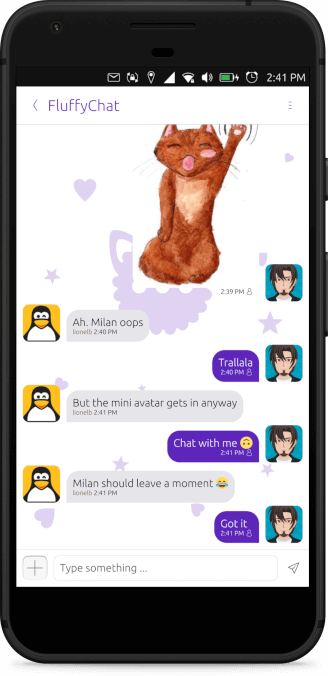
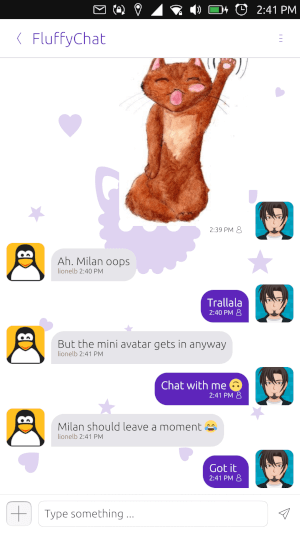
New screenshot design

diff --git a/assets/css/custom.css b/assets/css/custom.css
@@ -182,6 +182,8 @@ h4 {
 #screenshot {
     width: 30rem;
     max-width: calc(50vw - 10rem);
+    border-radius: 13px;
+    box-shadow: 0px 8px 8px 3px rgba(0,0,0,0.25);
 }
 
 #footer{
